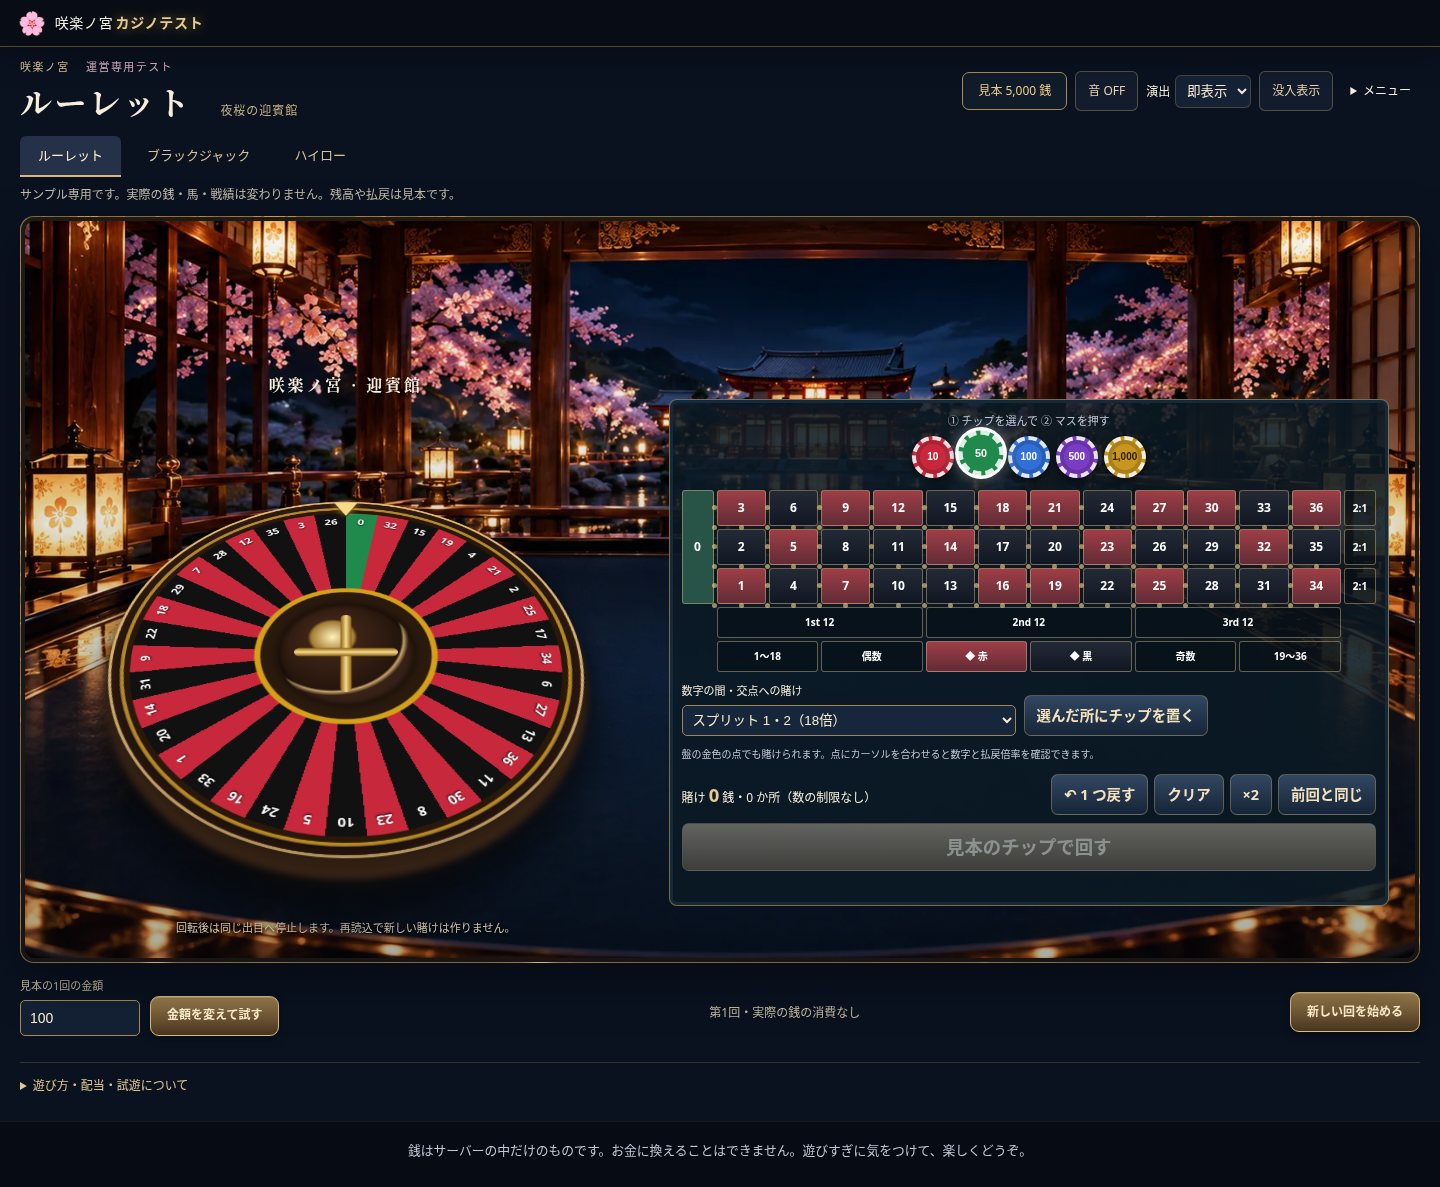
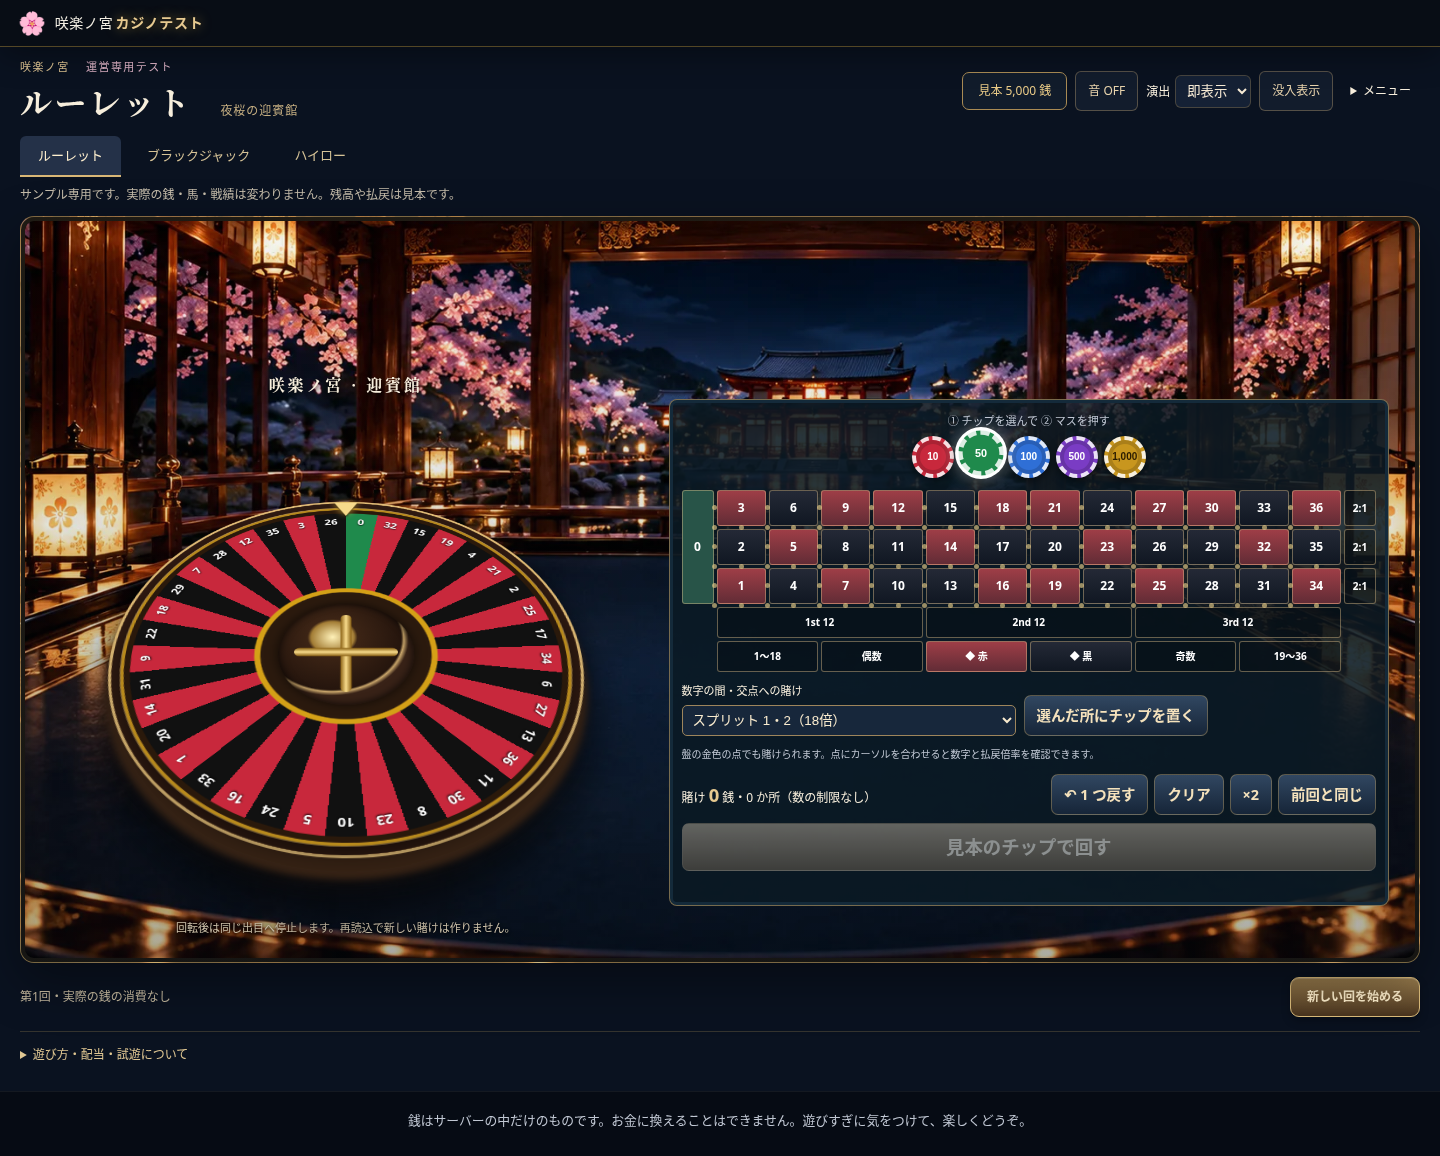
試遊の金額欄をゲームごとに分けて最終表示を記録

diff --git a/src/web/views/casinoRooms.tsx b/src/web/views/casinoRooms.tsx
@@ -32,7 +32,7 @@ export function CasinoRooms(p:{m:RoomPreview;cfg:GuildConfig}){
    : m.game==='blackjack'?<div class="ir-card-table"><div class="ir-hand ir-dealer"><p>ディーラー <b>{m.view.dealerTotal.total}{m.view.dealerHidden?' + ?':''}</b></p><div class="ir-cards">{m.view.dealer.map(c=><PlayingCard c={c}/>)}{m.view.dealerHidden&&<span class="pc back" aria-label="伏せたカード"/>}</div></div><p class="ir-table-mark">BLACKJACK · 咲楽ノ宮<br/><small>最初の2枚で21：元の賭けを含め2.5倍</small></p><div class="ir-hand ir-player"><p>あなた <b>{m.view.playerTotal.total}</b>{m.view.playerTotal.soft&&<small> Aを11で計算</small>}</p><div class="ir-cards">{m.view.player.map(c=><PlayingCard c={c}/>)}</div></div>{m.view.phase==='player'?<div class="ir-actions"><Move m={m} action="hit" kind="blue">ヒット<small>もう1枚</small></Move><Move m={m} action="stand" kind="red">スタンド<small>これで勝負</small></Move>{m.doubleAllowed&&<Move m={m} action="double">ダブル<small>倍にして1枚</small></Move>}</div>:<div class="ir-result" role="status"><b>{resultLabel[m.view.result!]}</b><span>見本の払戻 {fmt(m.paid)} {coin.name} ／ 差引 {fmt(net)} {coin.name}</span></div>}</div>
    :<div class="ir-highlow-play"><div class="ir-highlow-card"><div class="ir-history">{m.state.history.slice(-4).map(c=><PlayingCard c={c} small/>)}</div><PlayingCard c={m.state.current}/></div><div class="ir-highlow-status"><h2>灯籠の連勝記録</h2><div class="ir-lanterns" aria-hidden="true">{Array.from({length:HL_MAX_STEPS},(_,i)=><span class={i<m.state.steps?'lit':''}>✿</span>)}</div><p>成功 {m.state.steps} / {HL_MAX_STEPS} 回　倍率 {mult(m.state.mult)}</p><p class="ir-return">受取予定 <strong>{fmt(m.state.steps>0?Math.floor(m.bet*m.state.mult/1000):0)}</strong> {coin.name}</p>{m.state.lastDraw&&<p role="status">ドロー。連勝・倍率・受取予定額はそのままです。</p>}{m.state.phase==='done'&&<div class="ir-result" role="status"><b>{m.state.result==='cashout'?'見本の受け取り完了':'はずれ'}</b><span>見本の払戻 {fmt(m.paid)} {coin.name}</span></div>}</div>{m.state.phase==='playing'&&<div class="ir-actions">{(['high','low']as const).map(g=>hlWays(m.state.current,g)>0&&<Move m={m} action={g} kind={g==='high'?'blue':'red'}>{g==='high'?'▲ HIGH':'▼ LOW'}<small>{mult(hlNextMult(m.state.mult,m.state.current,g))}・決着時{Math.round(hlWays(m.state.current,g)/12*100)}%</small></Move>)}{m.state.steps>0&&<Move m={m} action="cashout" kind="purple">受け取る<small>見本の銭で終了</small></Move>}</div>}</div>}
   </section>
-  <footer class="ir-bottom"><form method="get" action={PATH} class="ir-bet"><input type="hidden" name="game" value={m.game}/><input type="hidden" name="round" value={m.round}/><label>見本の1回の金額<input type="number" name="bet" min={p.cfg.casino.minBet} max={Math.max(p.cfg.casino.minBet,Math.min(p.cfg.casino.maxBet,m.balance))} value={m.bet} required/></label><button class="ir-button">金額を変えて試す</button></form><span>第{m.round}回・実際の銭の消費なし</span><a class="ir-button ir-next" href={next}>新しい回を始める</a></footer>
+  <footer class="ir-bottom">{m.game!=='roulette'&&<form method="get" action={PATH} class="ir-bet"><input type="hidden" name="game" value={m.game}/><input type="hidden" name="round" value={m.round}/><label>見本の1回の金額<input type="number" name="bet" min={p.cfg.casino.minBet} max={Math.max(p.cfg.casino.minBet,Math.min(p.cfg.casino.maxBet,m.balance))} value={m.bet} required/></label><button class="ir-button">金額を変えて試す</button></form>}<span>第{m.round}回・実際の銭の消費なし</span><a class="ir-button ir-next" href={next}>新しい回を始める</a></footer>
   {!m.canContinue&&<p class="ir-notice">この試遊の操作上限です。新しい回を始めてください。</p>}
   <details class="ir-rules"><summary>遊び方・配当・試遊について</summary><p>ルーレットは0〜36の37マス。数字1つ36倍、赤黒など2倍、列・ダズン3倍。境界の賭けも選べます。ブラックジャックはディーラーが17以上で止まり、最初の21は2.5倍、通常勝ちは2倍、引き分けは戻ります。ハイローの同じ数字はドローで倍率・連勝を維持。成功倍率は「0.95÷引き分けを除く成功確率」で、高確率の選択では倍率が下がる場合もあります。表示は既存の判定処理に基づくサンプルで、実際の残高・戦績へ保存しません。</p></details>
  </div></CasinoLayout>;

diff --git a/docs/work-notes.md b/docs/work-notes.md
@@ -1207,3 +1207,7 @@
 
 - 音の最終版/tmp/casino-rooms-browser-ready.logも全項目成功。配札のノイズと減速する玉の刻み音を追加し、OFF/非表示/移動時に予約音を止める。実ブラウザ見本4点をdocs/previews/casino-immersive-{roulette,blackjack,highlow,mobile}.pngへ保存。生成した完成イメージと、実際に操作できる画面を区別。
 - 提出前の準備fetchで本番a68812eから追加なし。以降ソースを固定し、型/ビルド/全件を実行する。通常ゲームの画面・料金・払い戻し・残高・DB/設定は変えない。
+
+- 最終レビューで、ルーレットにもBJ/HL用の「1回の金額」欄を表示しており、チップ選択と混同する点を発見。今回の全件実行だけを停止し、その欄をルーレットでは出さないよう修正。見本と関連検証を更新してから、ソースを再固定して全件を最初から確認する。停止した実行を成功に数えない。
+
+- 金額欄修正後/tmp/casino-rooms-browser-locked.logも全項目成功。表示見本4点を更新。検証開始直前fetchで本番a68812eから追加なし。以降ソースを変更せず、改めて型/ビルド/全件を実行する。
